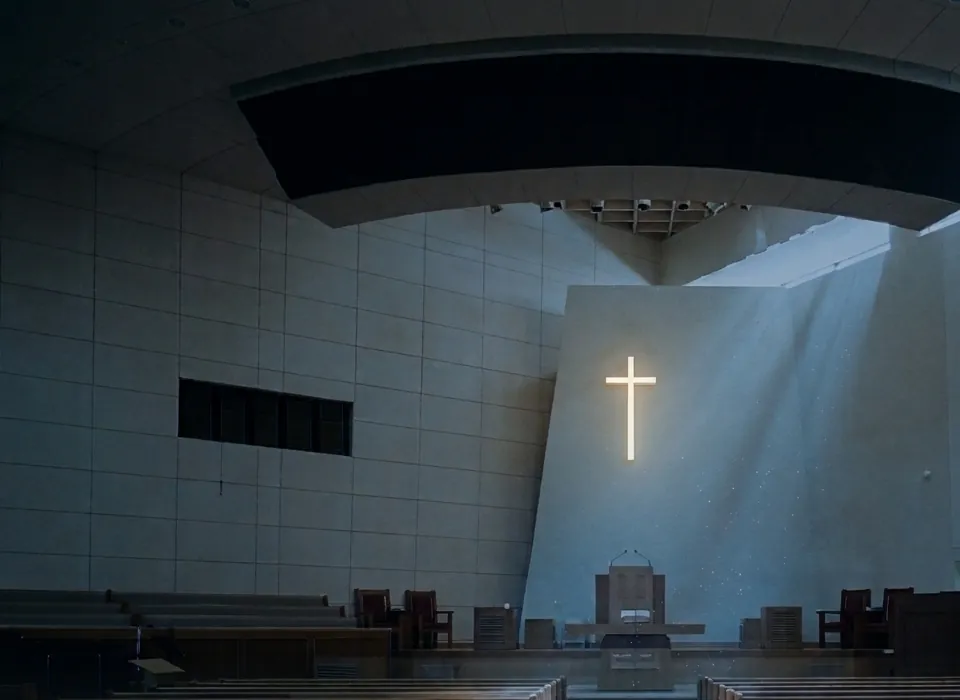
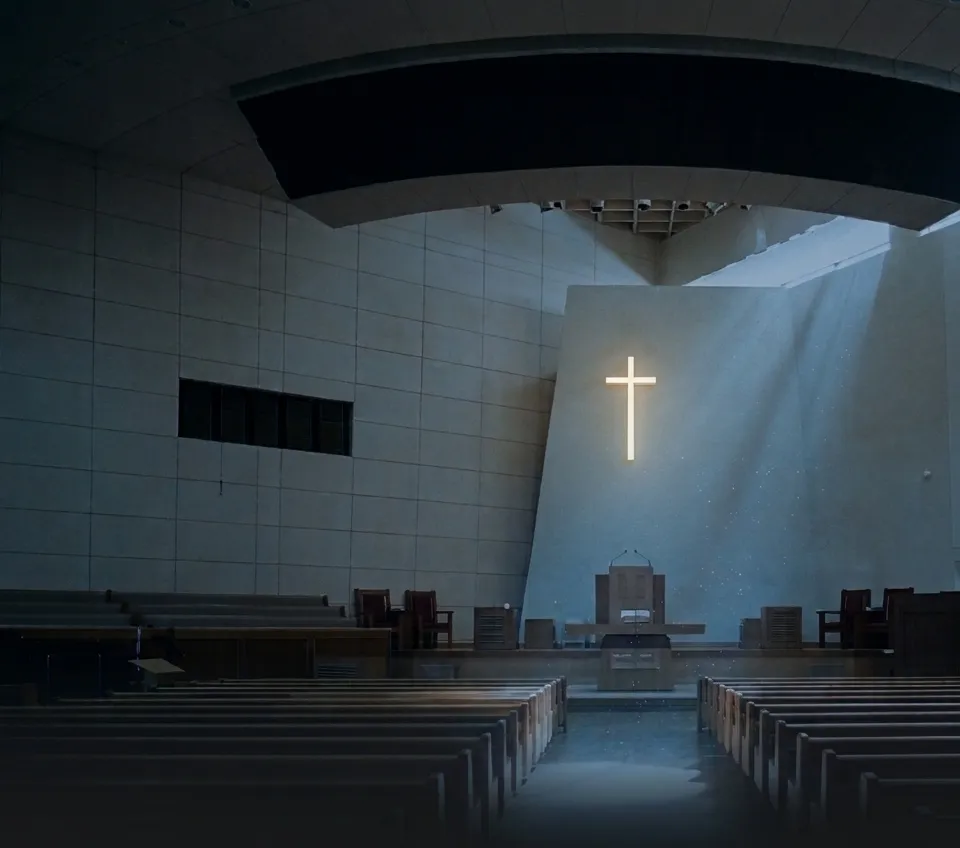
교회내부개선

diff --git a/frontend/src/pages/Home/components/rail/prayerWeek.css b/frontend/src/pages/Home/components/rail/prayerWeek.css
@@ -1,16 +1,18 @@
 /* 홈 우측 레일 '이번주 기도' 카드 — 참빛교회 본당 사진 머리 + 빛 알갱이. 접두사 pw-.
-   삽화(src/assets/prayer-week/window-*.webp, 960x700)는 실제 본당 사진을 제미나이로 다듬은
-   1264x848 원본(라이트=주일 오전 햇살, 다크=새벽 달빛·빛나는 십자가)에서 왼쪽 위 960x700 만 잘랐다.
-   ★자른 이유: 카드 폭 280px 에서 원본을 통째로 쓰면 십자가가 제목 둘째 줄("30번 아멘했어요")
-   끝과 겹친다. 960 폭으로 자르면 십자가가 가로 66%·세로 51~66% 로 내려와 글씨 오른쪽 아래에 선다.
+   삽화(src/assets/prayer-week/window-*.webp, 960x848)는 실제 본당 사진을 제미나이로 다듬은
+   1264x848 원본(라이트=주일 오전 햇살, 다크=새벽 달빛·빛나는 십자가)에서 왼쪽 960 폭만 잘랐다
+   (cwebp -q 80 -crop 0 0 960 848). 세로는 원본 끝까지 — 2026-11-15 전엔 700 에서 잘라 장의자가
+   머리만 보이고 끊겼다. 지금은 장의자 여러 줄과 가운데 통로까지 보인다.
+   ★가로를 자른 이유: 카드 폭 280px 에서 원본을 통째로 쓰면 십자가가 제목 둘째 줄("30번 아멘했어요")
+   끝과 겹친다. 960 폭으로 자르면 십자가가 가로 66%·세로 42~54% 로 내려와 글씨 오른쪽 아래에 선다.
    오른쪽 ✦ 워터마크·드럼 세트도 같이 빠진다. 다시 자를 땐 십자가-제목 간격부터 잴 것.
    위는 천장(제목 자리) — 라이트도 흰 글씨+따뜻한 갈색 베일(흰 베일은 사진이 바래 폐기),
-   다크는 옅은 어둠 베일. 아래는 장의자 위에서 잘려 카드 바탕색으로
+   다크는 옅은 어둠 베일. 아래는 장의자 끝에서 카드 바탕색으로
    녹인다. 빛 알갱이는 강단(십자가 아래)에서 떠오른다. */
 
 .pw-art {
   position: relative;
-  aspect-ratio: 960 / 700;
+  aspect-ratio: 960 / 848;
   /* 그림이 오기 전엔 본당 벽 톤으로 자리를 지킨다 */
   background-color: #e9dfcf;
   overflow: hidden;
@@ -28,11 +30,11 @@
     linear-gradient(
       to bottom,
       rgba(46, 32, 16, 0.6) 0%,
-      rgba(46, 32, 16, 0.42) 32%,
-      rgba(46, 32, 16, 0.12) 48%,
-      rgba(46, 32, 16, 0) 58%
+      rgba(46, 32, 16, 0.42) 26%,
+      rgba(46, 32, 16, 0.12) 40%,
+      rgba(46, 32, 16, 0) 48%
     ),
-    linear-gradient(to bottom, transparent 70%, var(--surface-container) 100%);
+    linear-gradient(to bottom, transparent 78%, var(--surface-container) 100%);
 }
 /* 제목은 두 테마 모두 사진 위 흰 글씨 — 라이트도 흰 베일+검은 글씨는 사진이 바래 보여 버렸다(2026-11-14).
    다크는 원래 클래스(text-ink-strong·text-brand) 그대로 두고 라이트만 덮어쓴다. */
@@ -51,10 +53,10 @@
     linear-gradient(
       to bottom,
       rgba(0, 0, 0, 0.42) 0%,
-      rgba(0, 0, 0, 0.3) 34%,
-      rgba(0, 0, 0, 0) 52%
+      rgba(0, 0, 0, 0.3) 28%,
+      rgba(0, 0, 0, 0) 43%
     ),
-    linear-gradient(to bottom, transparent 70%, var(--surface-container) 100%);
+    linear-gradient(to bottom, transparent 78%, var(--surface-container) 100%);
 }
 .pw-art-img {
   position: absolute;
@@ -73,7 +75,8 @@
 /* 빛 알갱이 — 아멘이 많은 주일수록 창턱에서 더 많이 떠오른다 */
 .pw-mote {
   position: absolute;
-  bottom: 18%;
+  /* 강단 높이 — 그림이 아래로 길어져(700→848) 바닥 기준 비율도 올렸다 */
+  bottom: 32%;
   z-index: 1;
   border-radius: 9999px;
   /* 라이트는 채광창 햇살의 금빛 먼지 */
